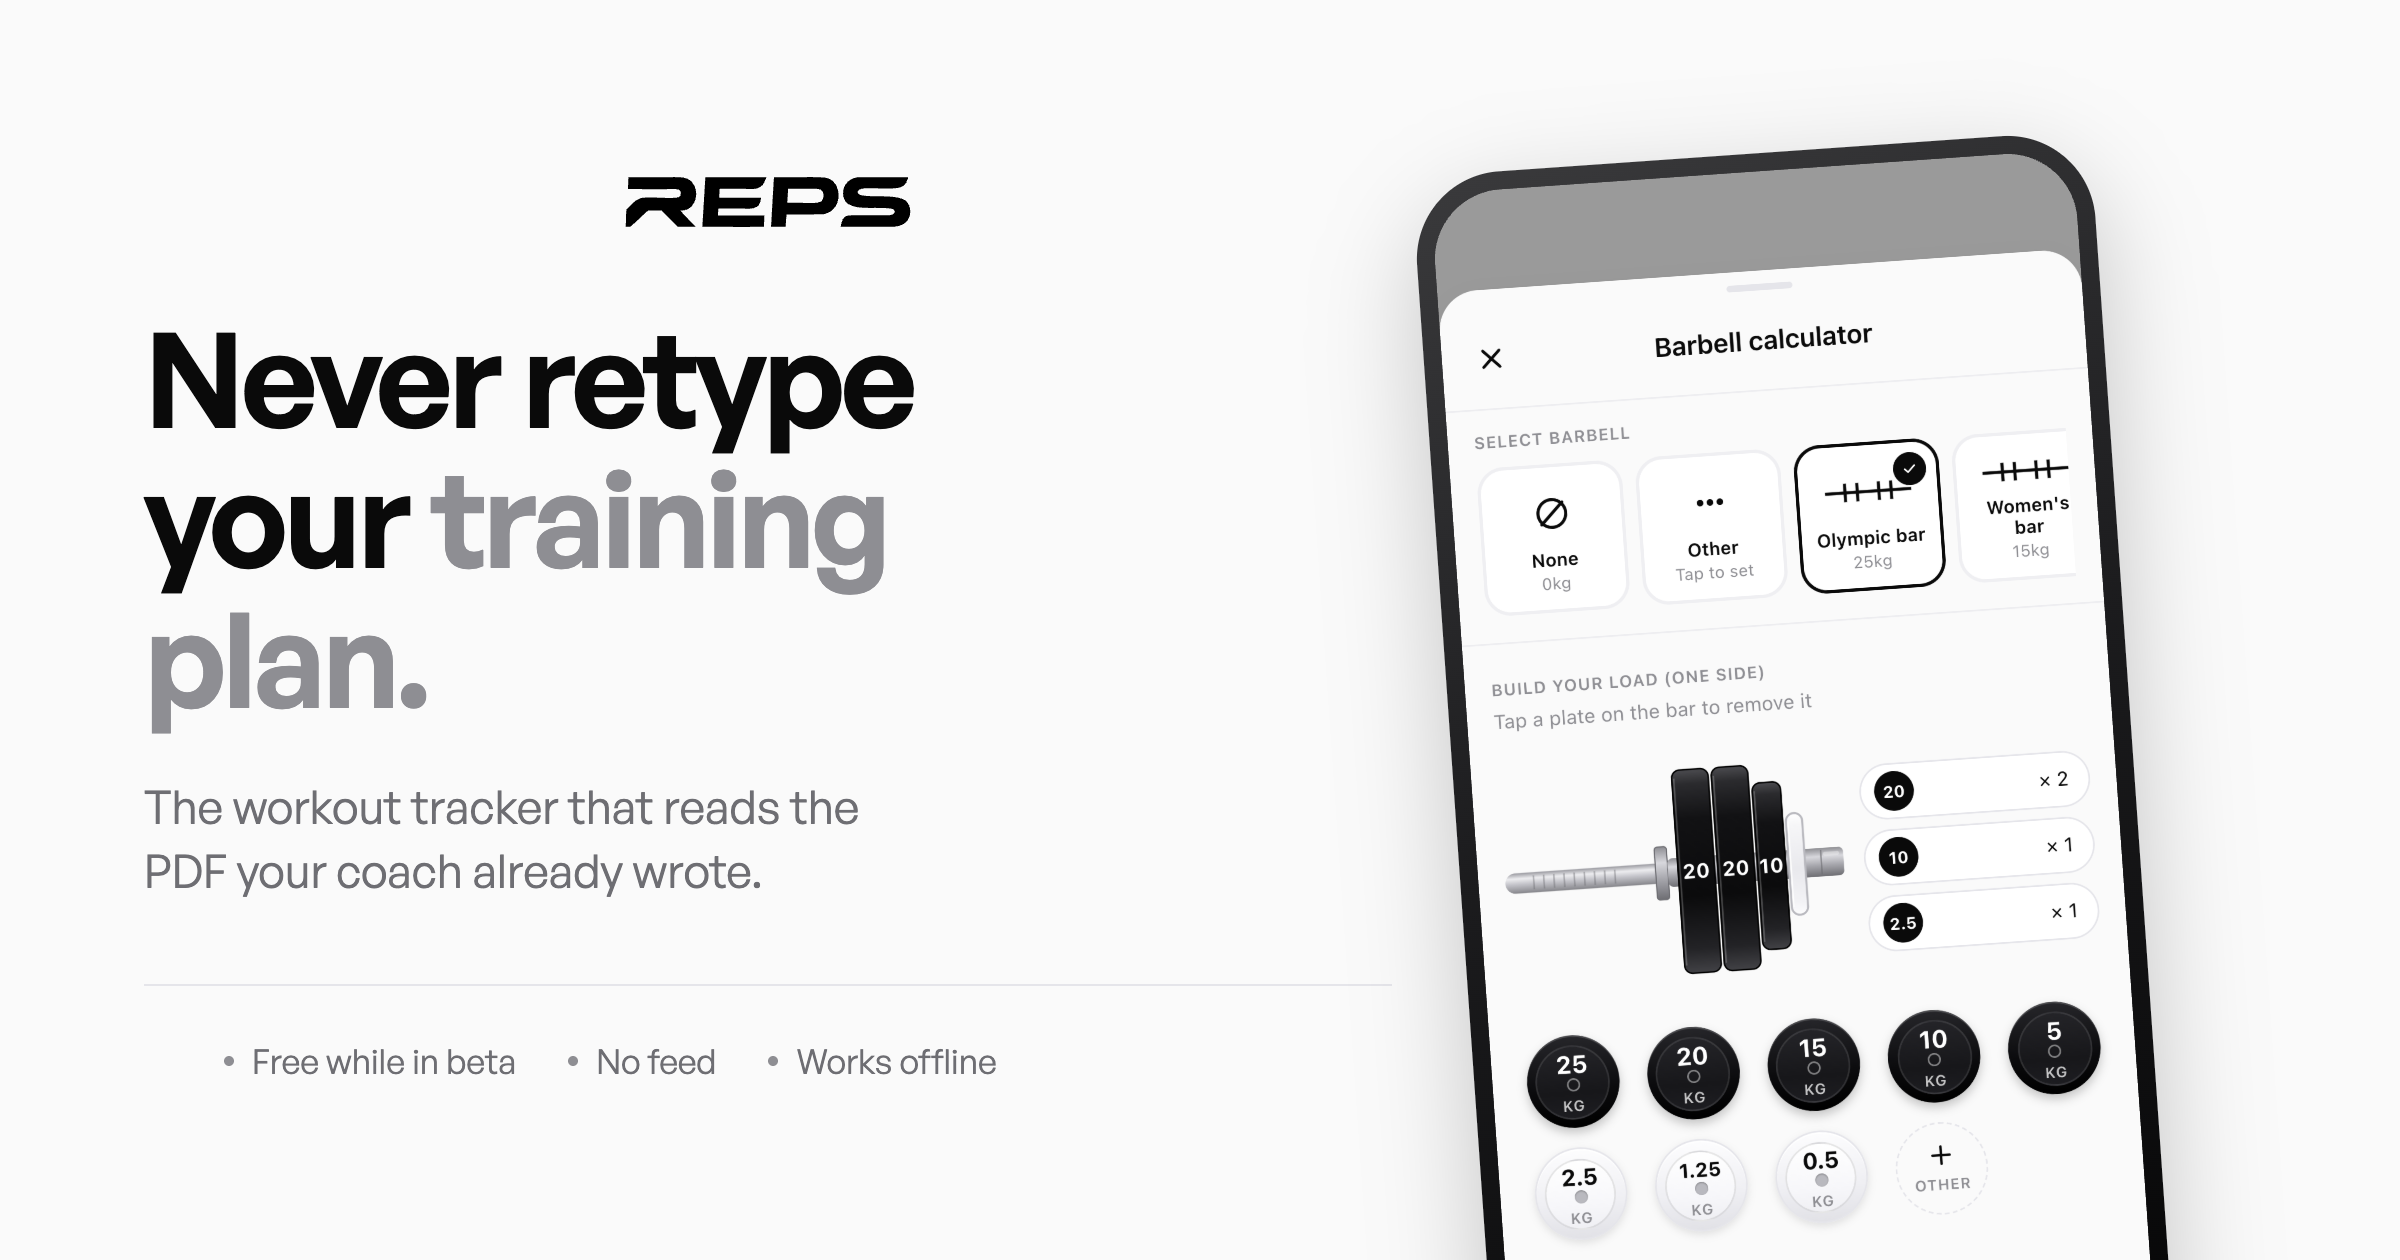
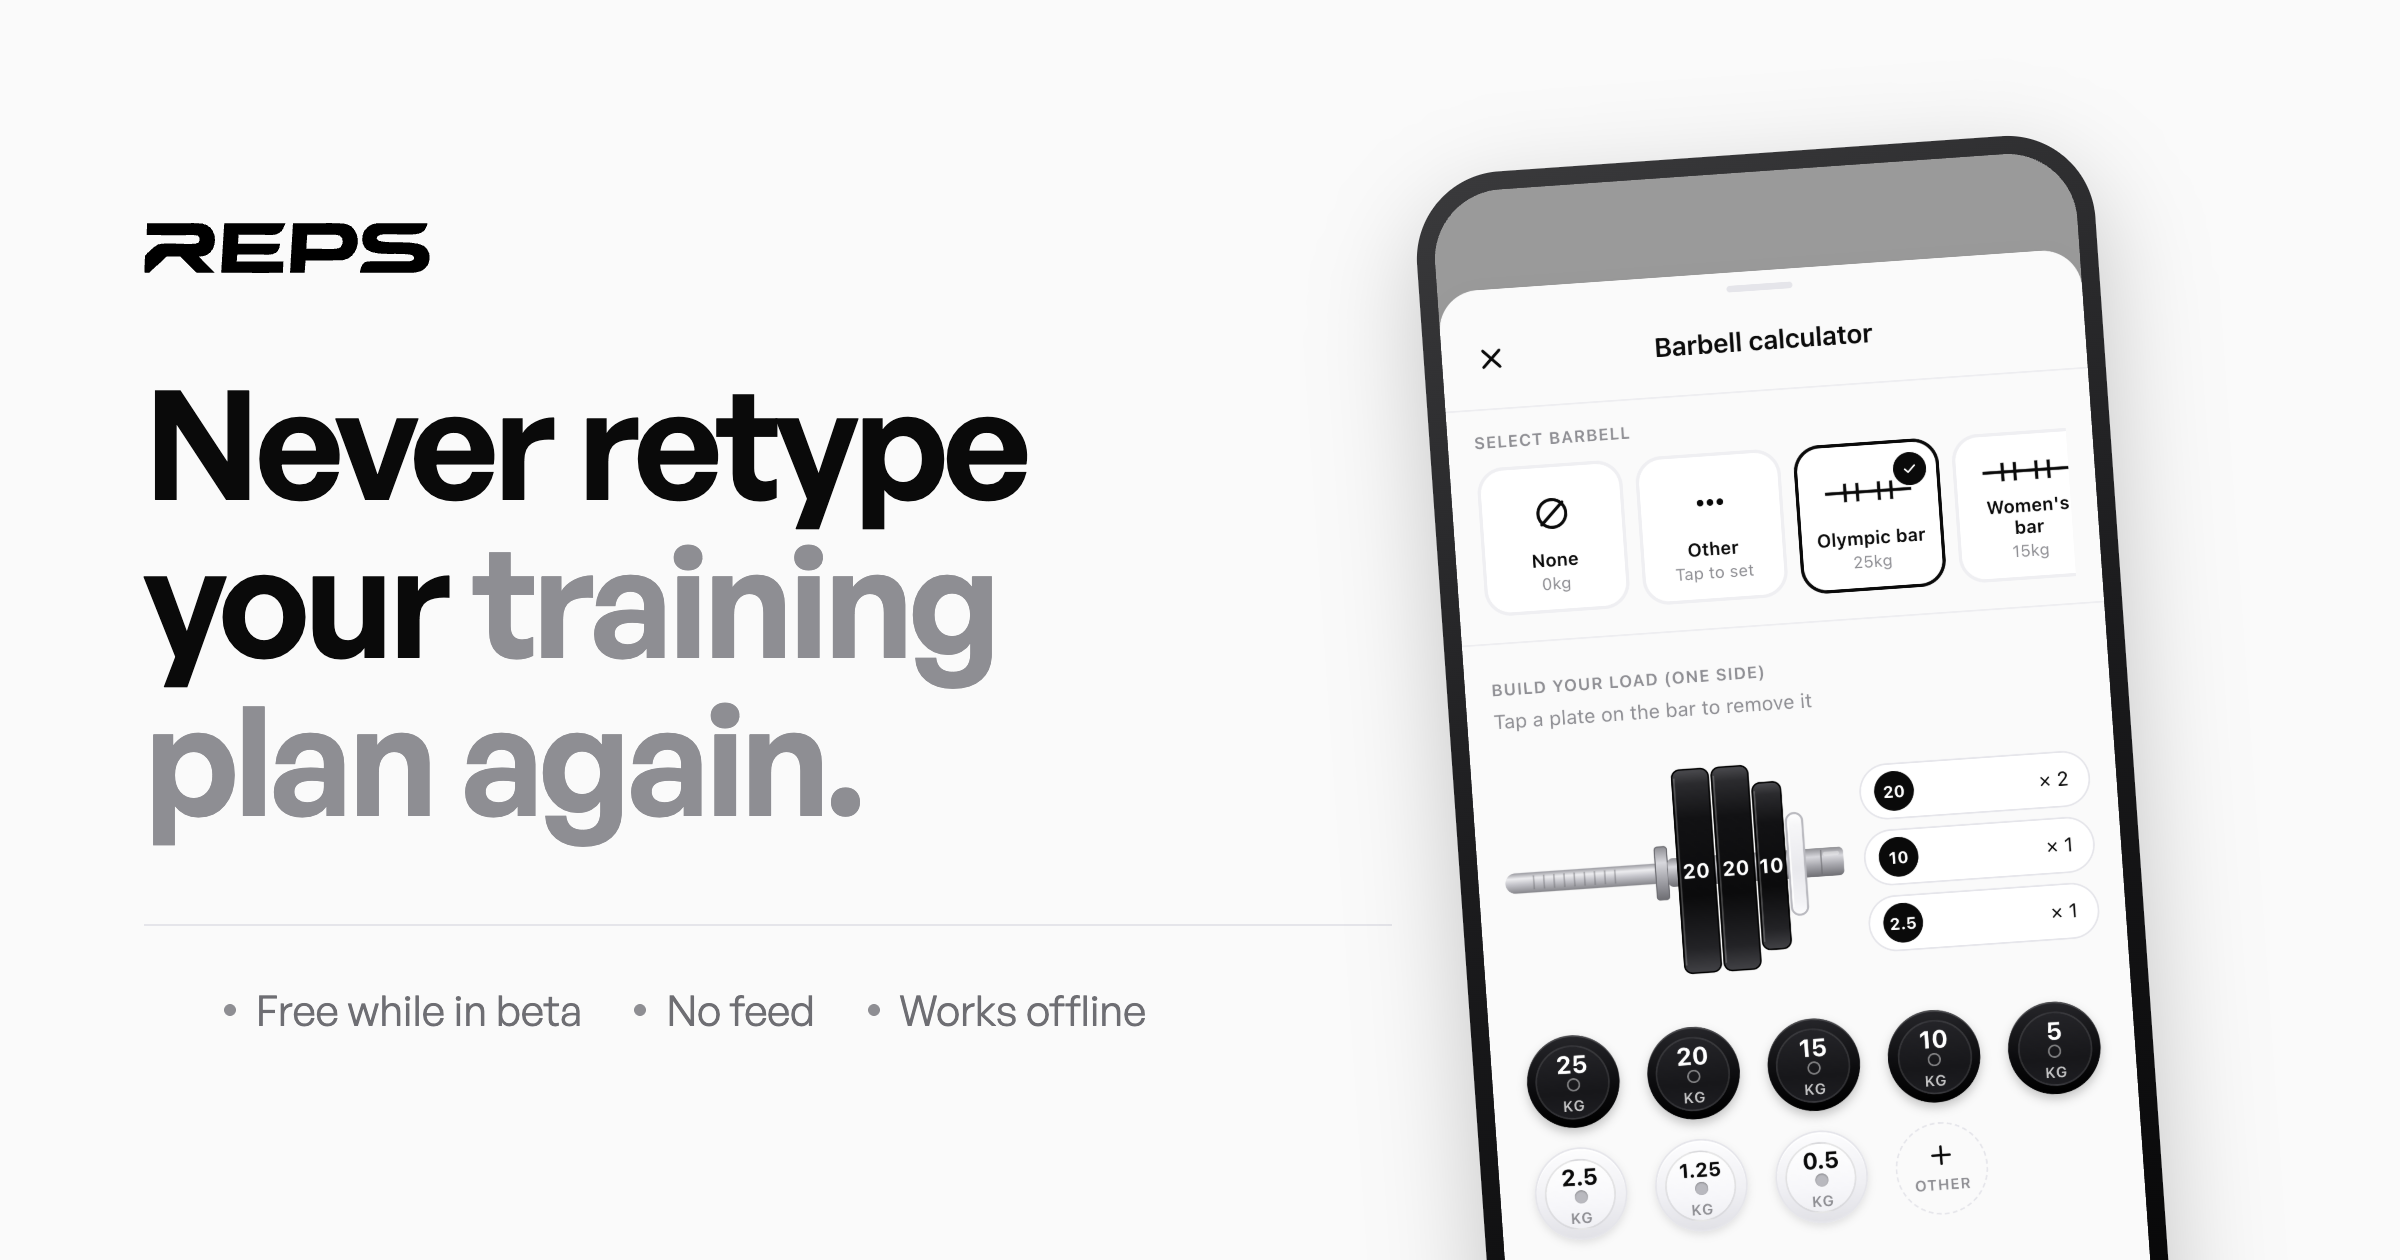
Tighten the share card
The wordmark was stretching to the flex column's width, and the SVG then
centred itself inside that box, so it sat well right of the headline. Pinned
to an explicit width and flex-start.

Headline now reads "Never retype your training plan again.", matching the
page's own h1 and its ink/grey split.

Dropped the supporting paragraph: share cards get rendered small, and at that
size it was unreadable. The headline takes the room instead, and the facts row
goes 17px to 21px for the same reason. Checked at ~500px wide.

diff --git a/tools/og.html b/tools/og.html
@@ -29,39 +29,33 @@
     flex-direction: column;
     justify-content: center;
   }
-  .mark { height: 26px; width: auto; margin-bottom: 40px; }
+  /* Explicit width + flex-start, or the stretched box centres the SVG. */
+  .mark { width: 143px; height: auto; align-self: flex-start; margin-bottom: 44px; }
 
   h1 {
-    font-size: 66px;
+    font-size: 76px;
     font-weight: 600;
-    line-height: 1.06;
-    letter-spacing: -0.03em;
+    line-height: 1.04;
+    letter-spacing: -0.032em;
     max-width: 11ch;
   }
   h1 span { color: #8E8E93; }
 
-  p {
-    margin-top: 24px;
-    font-size: 23px;
-    line-height: 1.4;
-    color: #6E6E73;
-    max-width: 27ch;
-  }
 
   .facts {
     display: flex;
     gap: 26px;
-    margin-top: 40px;
-    padding-top: 26px;
+    margin-top: 44px;
+    padding-top: 28px;
     border-top: 1px solid #E5E5EA;
-    font-size: 17px;
+    font-size: 21px;
     color: #6E6E73;
     list-style: none;
   }
-  .facts li { display: flex; align-items: center; gap: 9px; }
+  .facts li { display: flex; align-items: center; gap: 10px; }
   .facts li::before {
     content: "";
-    width: 5px; height: 5px;
+    width: 6px; height: 6px;
     border-radius: 50%;
     background: #8E8E93;
   }
@@ -93,8 +87,7 @@
 <body>
   <div class="copy">
     <img class="mark" src="../assets/Reps-Logo.svg" alt="" />
-    <h1>Never retype your <span>training plan.</span></h1>
-    <p>The workout tracker that reads the PDF your coach already wrote.</p>
+    <h1>Never retype your <span>training plan again.</span></h1>
     <ul class="facts">
       <li>Free while in beta</li>
       <li>No feed</li>

diff --git a/index.html b/index.html
@@ -18,7 +18,7 @@
 <meta property="og:image:type" content="image/png" />
 <meta property="og:image:width" content="2400" />
 <meta property="og:image:height" content="1260" />
-<meta property="og:image:alt" content="Reps — never retype your training plan. The barbell calculator on an iPhone, with plates loaded on the bar." />
+<meta property="og:image:alt" content="Reps — never retype your training plan again. The barbell calculator on an iPhone, with plates loaded on the bar." />
 <meta name="twitter:card" content="summary_large_image" />
 <meta name="twitter:title" content="Never retype your training plan" />
 <meta name="twitter:description" content="The workout tracker that reads the PDF your coach already wrote. Log it set by set, with the plate maths done and no signal needed." />
